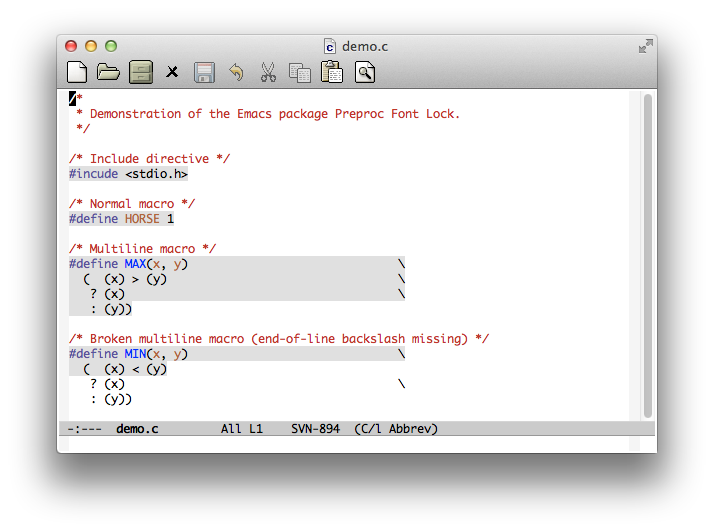
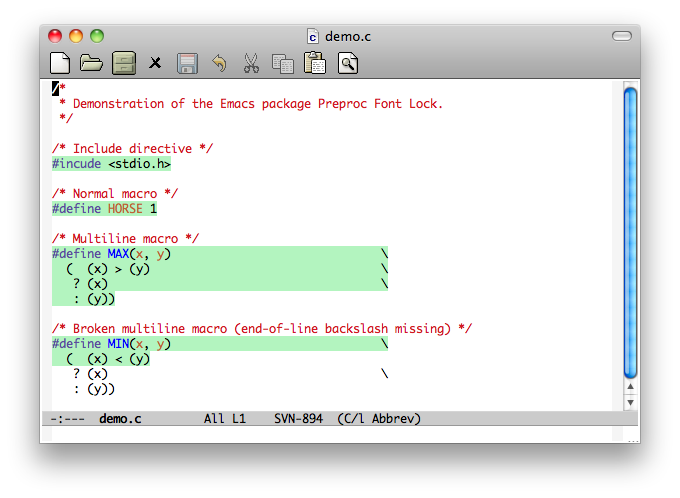
No longer activated by default when installed as a package. Face inherits from 'highlight' face, as this works better with color themes. Modes simplified.
git-svn-id: https://dropofthesun.com/svn/emacs/repos/preproc-font-lock/branches/github@984 c1af6f96-8016-4733-90a2-447896f46de0

diff --git a/test/files/demo.c b/test/files/demo.c
@@ -3,7 +3,7 @@
  */
 
 /* Include directive */
-#incude <stdio.h>
+#include <stdio.h>
 
 /* Normal macro */
 #define HORSE 1

diff --git a/README.md b/README.md
@@ -1,7 +1,7 @@
 # preproc-font-lock - Highlight C-style preprocessor directives
 
 *Author:* Anders Lindgren<br>
-*Version:* 0.0.3<br>
+*Version:* 0.0.4<br>
 *URL:* [https://github.com/Lindydancer/preproc-font-lock](https://github.com/Lindydancer/preproc-font-lock)<br>
 
 
@@ -16,15 +16,19 @@ buffers.
 
 ## Installation
 
-This package is designed to be installed as a "package". Once
-installed, it is automatically activated.
+Place this package in a directory in the load-path. To activate it,
+use *customize* or place the following lines in a suitable init
+file:
+
+       (require 'preproc-font-lock-mode)
+       (preproc-font-lock-global-mode 1)
 
 ## Customization
 
 You can customize this package using the following:
 
-* `preproc-font-lock-face` -- The *face* used to highlight the
-  preprocessor directive
+* `preproc-font-lock-preprocessor-background` -- The *face* used to
+  highlight the preprocessor directive
 * `preproc-font-lock-modes` -- A list of major modes. A buffer is
   highlighted if it's major mode is, or is derived from, a member
   of this list.
